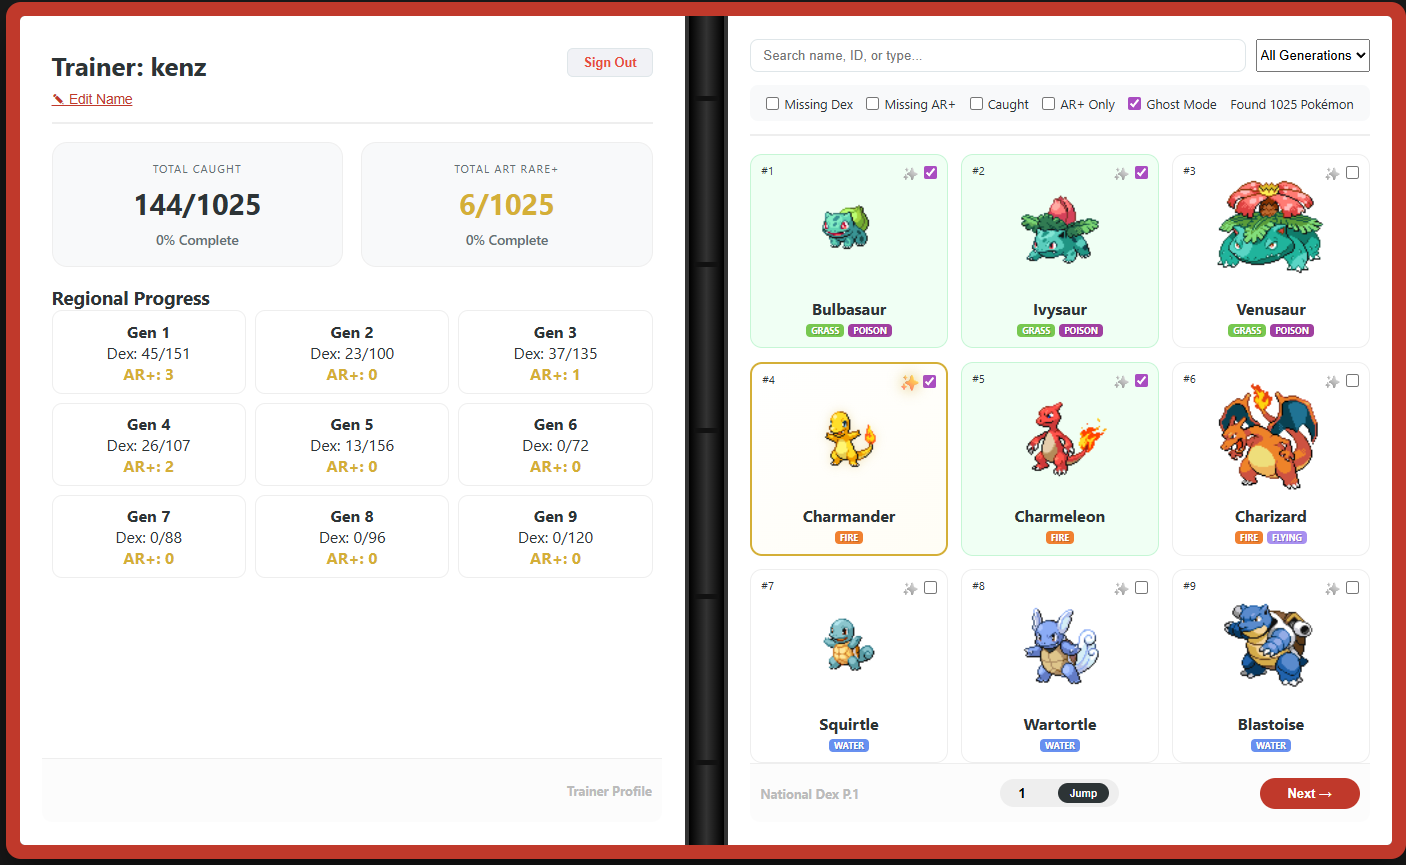
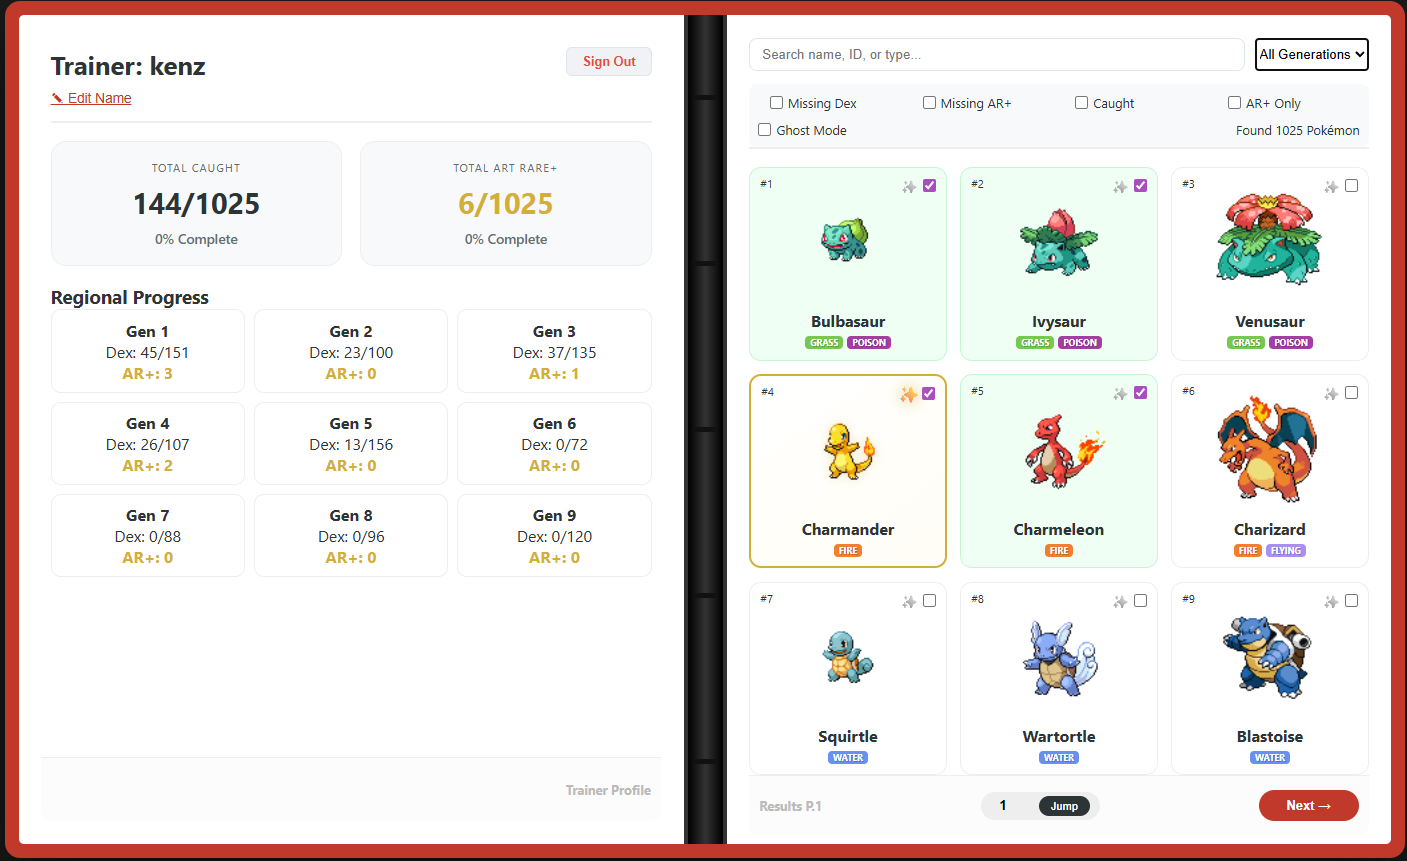
fixed mobile responsiveness.?

diff --git a/style.css b/style.css
@@ -1,4 +1,37 @@
-/* --- Global Variables & Theme --- */
+.filter-container {
+    display: flex;
+    flex-wrap: wrap;
+    gap: 10px;
+    align-items: center;
+}
+
+.filter-item {
+    flex: 1 1 auto;
+    min-width: 120px;
+}
+
+/* Mobile: 2 filters per row */
+@media (max-width: 768px) {
+    .filter-item {
+        flex: 1 1 calc(50% - 5px);
+        min-width: auto;
+    }
+}
+
+/* Tablet: 3 filters per row */
+@media (min-width: 769px) and (max-width: 1024px) {
+    .filter-item {
+        flex: 1 1 calc(33.333% - 7px);
+        min-width: auto;
+    }
+}
+
+/* Desktop: flexible layout */
+@media (min-width: 1025px) {
+    .filter-item {
+        flex: 0 1 auto;
+    }
+}
 :root {
     --binder-red: #c0392b;
     --page-bg: #ffffff;
@@ -23,7 +56,6 @@ body {
     justify-content: center;
     padding: 2vh;
     color: var(--text-dark);
-    /* RESPONSIVE FIX: Allow scrolling on small screens */
     min-height: 100vh;
     height: 100vh; 
     overflow: hidden;
@@ -471,7 +503,7 @@ body {
 
 /* --- Authentication Overlay --- */
 .auth-overlay {
-    position: absolute; top: 0; left: 0; width: 100%; height: 100%;
+    position: fixed; top: 0; left: 0; width: 100%; height: 100%;
     background: rgba(0, 0, 0, 0.6); backdrop-filter: blur(5px);
     display: flex; justify-content: center; align-items: center;
     z-index: 2000; border-radius: 5px; 
@@ -493,115 +525,37 @@ body {
    RESPONSIVE OVERRIDES
    ============================================================ */
 
-/* --- Tablet / Large Phone (iPad Portrait) --- */
 @media (max-width: 1024px) {
-    body {
-        height: auto;
-        overflow-y: auto;
-    }
-
-    .binder-container {
-        height: auto;
-        margin: 20px 0;
-        padding: 10px;
-    }
-
-    .spread-container {
-        flex-direction: column;
-        gap: 15px;
-        background: transparent;
-    }
-
-    .binder-spine {
-        display: none;
-    }
-
-    .binder-page {
-        height: auto;
-        min-height: 85vh;
-        border-radius: 10px;
-        overflow: visible;
-    }
-
-    .grid-3x3 {
-        grid-template-rows: auto !important;
-    }
-
-    .card img {
-        height: 120px;
-    }
+    body { height: auto; overflow-y: auto; }
+    .binder-container { height: auto; margin: 20px 0; padding: 10px; }
+    .spread-container { flex-direction: column; gap: 15px; background: transparent; }
+    .binder-spine { display: none; }
+    .binder-page { height: auto; min-height: 85vh; border-radius: 10px; overflow: visible; }
+    .grid-3x3 { grid-template-rows: auto !important; }
 }
 
-/* --- Mobile (iPhone) 3x3 Layout --- */
 @media (max-width: 600px) {
-    .binder-page {
-        padding: 1.5vh; /* Tighten page padding */
-    }
-
-    .identity h2 { font-size: 1.2rem; }
+    .binder-page { padding: 1.5vh; overflow: visible !important; }
+    .identity h2 { font-size: 1.1rem !important; }
+    .main-stats-grid { grid-template-columns: 1fr; gap: 8px; }
+    .stat-card { padding: 1.5vh; }
+    .stat-value { font-size: 1.5rem; }
+    .gen-dashboard-grid { grid-template-columns: repeat(3, 1fr); gap: 5px; }
+    .gen-mini-grid { grid-template-columns: repeat(4, 1fr); gap: 5px; }
     
-    .main-stats-grid {
-        grid-template-columns: 1fr;
-    }
+    .search-header { height: auto; padding-bottom: 10px; }
+    .search-row { flex-direction: column; gap: 5px; }
+    .filter-row { flex-wrap: wrap; gap: 10px; justify-content: flex-start; font-size: 0.65rem; }
 
-    .gen-dashboard-grid {
-        grid-template-columns: repeat(3, 1fr);
-        gap: 5px;
-    }
+    .grid-3x3 { grid-template-columns: repeat(3, 1fr); gap: 6px; }
+    .card { padding: 4px; border-radius: 6px; }
+    .card img { height: 60px !important; margin-bottom: 2px; }
+    .card-header { font-size: 0.45rem; top: 3px; padding: 0 4px; }
+    .art-rare-btn { font-size: 0.6rem; }
+    .type-badge { font-size: 0.35rem; padding: 1px 2px; min-width: 25px; }
 
-    .gen-mini-grid {
-        grid-template-columns: repeat(4, 1fr); /* 4 per row on mini-stats */
-        gap: 5px;
-    }
-
-    /* Keep the 3x3 Grid but scale down contents */
-    .grid-3x3 {
-        grid-template-columns: repeat(3, 1fr); 
-        gap: 6px; 
-    }
-
-    .card {
-        padding: 5px;
-        border-radius: 8px;
-    }
-
-    .card img {
-        height: 70px; /* Small enough to fit 3x3 comfortably */
-        margin-bottom: 2px;
-    }
-
-    .card-header {
-        font-size: 0.5rem; /* Shrink ID and Star button */
-        top: 4px;
-        padding: 0 4px;
-    }
-
-    .art-rare-btn {
-        font-size: 0.6rem;
-    }
-
-    .type-badge {
-        font-size: 0.4rem;
-        padding: 1px 3px;
-        min-width: 30px;
-    }
-
-    .page-footer {
-        flex-direction: row; /* Keep nav items inline */
-        padding: 10px 5px;
-        height: auto;
-    }
-
-    .nav-btn {
-        padding: 6px 12px;
-        font-size: 0.7rem;
-        min-width: 70px;
-    }
-
-    .jump-box {
-        gap: 4px;
-        padding: 2px 6px;
-    }
-
-    .jump-box input { width: 30px; font-size: 0.7rem; }
+    .page-footer { flex-direction: row; padding: 10px 5px; height: auto; }
+    .nav-btn { padding: 6px 10px; font-size: 0.65rem; min-width: 65px; }
+    .jump-box { gap: 4px; padding: 2px 5px; }
+    .jump-box input { width: 25px; font-size: 0.65rem; }
 }

diff --git a/index.html b/index.html
@@ -71,23 +71,35 @@
                         </select>
                     </div>
 
-                    <div class="filter-row">
-                        <label class="toggle-label">
-                            <input type="checkbox" id="missing-dex-toggle"> <span>Missing Dex</span>
-                        </label>
-                        <label class="toggle-label">
-                            <input type="checkbox" id="missing-rare-toggle"> <span>Missing AR+</span>
-                        </label>
-                        <label class="toggle-label">
-                            <input type="checkbox" id="caught-only-toggle"> <span>Caught</span>
-                        </label>
-                        <label class="toggle-label">
-                            <input type="checkbox" id="ar-only-toggle"> <span>AR+ Only</span>
-                        </label>
-                        <label class="toggle-label">
-                            <input type="checkbox" id="ghost-mode-toggle" checked> <span>Ghost Mode</span>
-                        </label>
-                        <span id="result-counter"></span>
+                    <div class="filter-row filter-container">
+                        <div class="filter-item">
+                            <label class="toggle-label">
+                                <input type="checkbox" id="missing-dex-toggle"> <span>Missing Dex</span>
+                            </label>
+                        </div>
+                        <div class="filter-item">
+                            <label class="toggle-label">
+                                <input type="checkbox" id="missing-rare-toggle"> <span>Missing AR+</span>
+                            </label>
+                        </div>
+                        <div class="filter-item">
+                            <label class="toggle-label">
+                                <input type="checkbox" id="caught-only-toggle"> <span>Caught</span>
+                            </label>
+                        </div>
+                        <div class="filter-item">
+                            <label class="toggle-label">
+                                <input type="checkbox" id="ar-only-toggle"> <span>AR+ Only</span>
+                            </label>
+                        </div>
+                        <div class="filter-item">
+                            <label class="toggle-label">
+                                <input type="checkbox" id="ghost-mode-toggle" checked> <span>Ghost Mode</span>
+                            </label>
+                        </div>
+                        <div class="filter-item" style="flex-grow: 1; display: flex; justify-content: flex-end; align-items: center;">
+                            <span id="result-counter"></span>
+                        </div>
                     </div>
                 </div>
 

diff --git a/script.js b/script.js
@@ -149,7 +149,7 @@ function render() {
             leftCont.innerHTML = generateFullDashboardHTML();
             const rightItems = allPokemon.slice(0, perPage);
             rightCont.innerHTML = rightItems.map(p => filteredResults.includes(p) ? createCardHTML(p) : `<div class="card hidden-slot" style="visibility: hidden;"></div>`).join('');
-            updatePageNumbers("Trainer Profile", "National Dex P.1");
+            updatePageNumbers("Trainer Profile", "National Dex Page 1");
         } else {
             const leftItems = allPokemon.slice(offset, offset + perPage);
             const rightItems = allPokemon.slice(offset + perPage, offset + perSpread);
